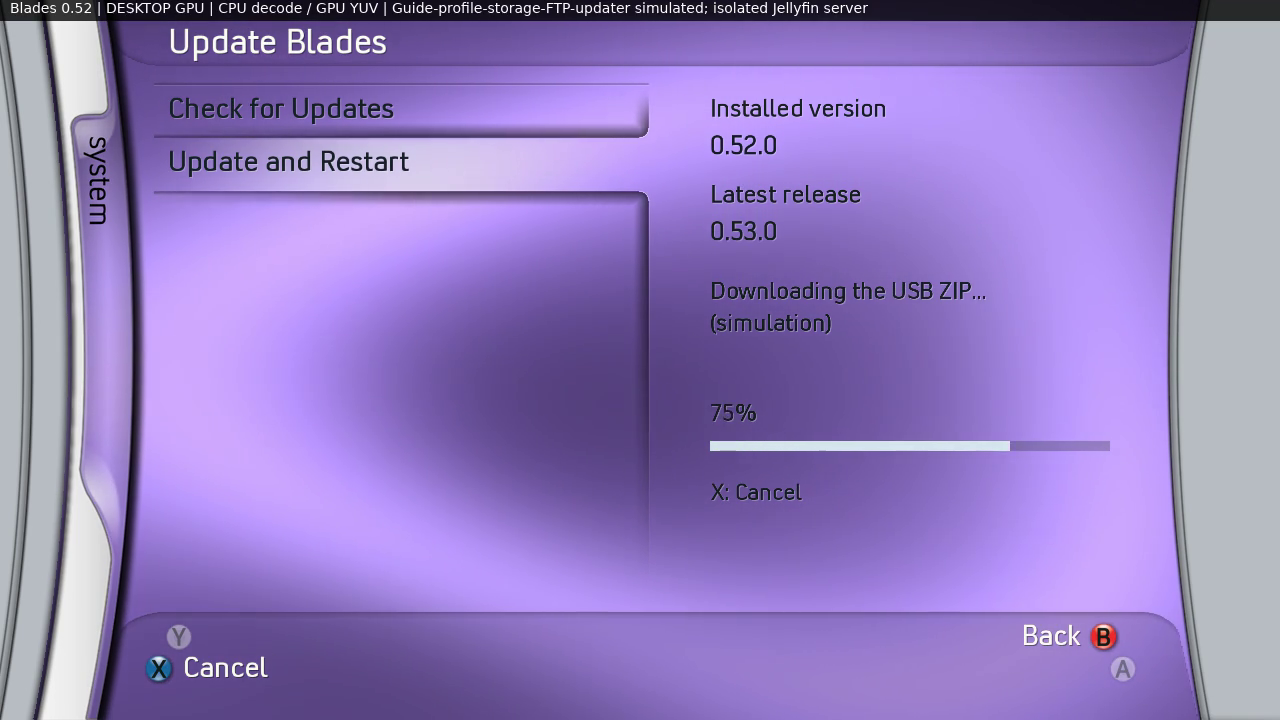
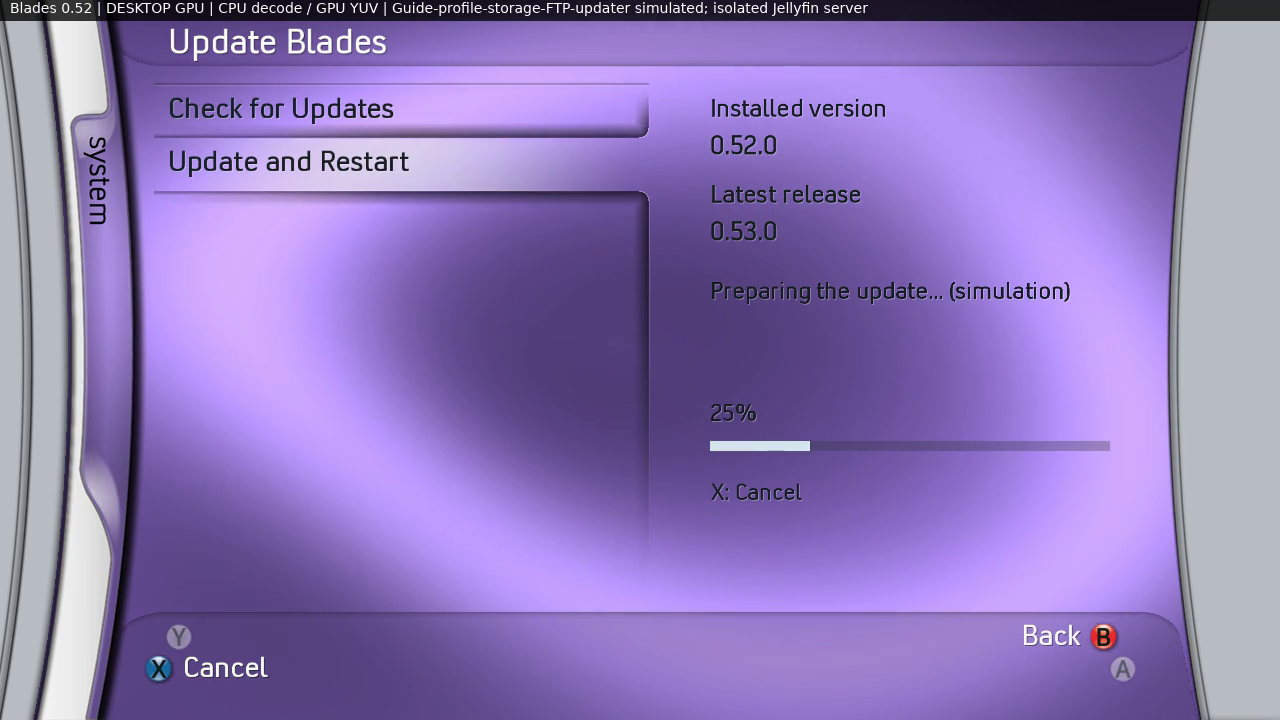
Record live verified download and actual-package installation checks
Current0.52 client reads live dist manifest; older-version desktop client downloads actual5676870-byte ZIP with length/SHA256 verified. Shared installer stages/commits every downloaded file byte-for-byte on disposable app tree with bootstrap helper and preserves private Config. Correct phase screenshot timing and retain every published versioned artifact unchanged. Native XAM/helper/relaunch and console storage remain hardware tests.

diff --git a/docs/VALIDATION.md b/docs/VALIDATION.md
@@ -26,7 +26,10 @@ USB/source CRCs/SHA manifests/current files and private-data exclusions pass.
 Compiled Xenos shaders pass retained arithmetic checks. The fresh240s720p30
 stereo desktop video fully decodes; installer/restart scenes are labelled simulated.
 Prior decoder/FTP/Jellyfin implementation files are retained (version label only
-in video.c). Live production GitHub check/download is verified after publication.
+in video.c). Live GitHub tests pass: the0.52 client reports current and an older-version
+desktop client downloads the actual USB ZIP with exact size/SHA256 verification.
+The downloaded ZIP then stages/commits all files byte-for-byte on a disposable
+host app tree with bootstrap helper; private Config remains intact.
 
 Native helper/XAM handoff, actual automatic relaunch, file-replacement support
 on console storage, drive-cache power-loss durability and launch/exit static

diff --git a/docs/WALKTHROUGH.md b/docs/WALKTHROUGH.md
@@ -15,7 +15,7 @@ no user account, private server, passwords or session tokens are recorded.
 
 03:29 onward shows System > Update Blades, simulated newer-version detection,
 download/cancel/retry, preparation, then Installing and restarting Blades.
-At approximately03:44, the simulated installer handoff resets the actual shared
+At approximately03:46, the simulated installer handoff resets the actual shared
 startup renderer to the Games blade opening. The remaining navigation passes
 through Xbox Live and Games. File replacement is never performed by this capture;
 the real installer fixture independently stages and commits the actual USB ZIP.
